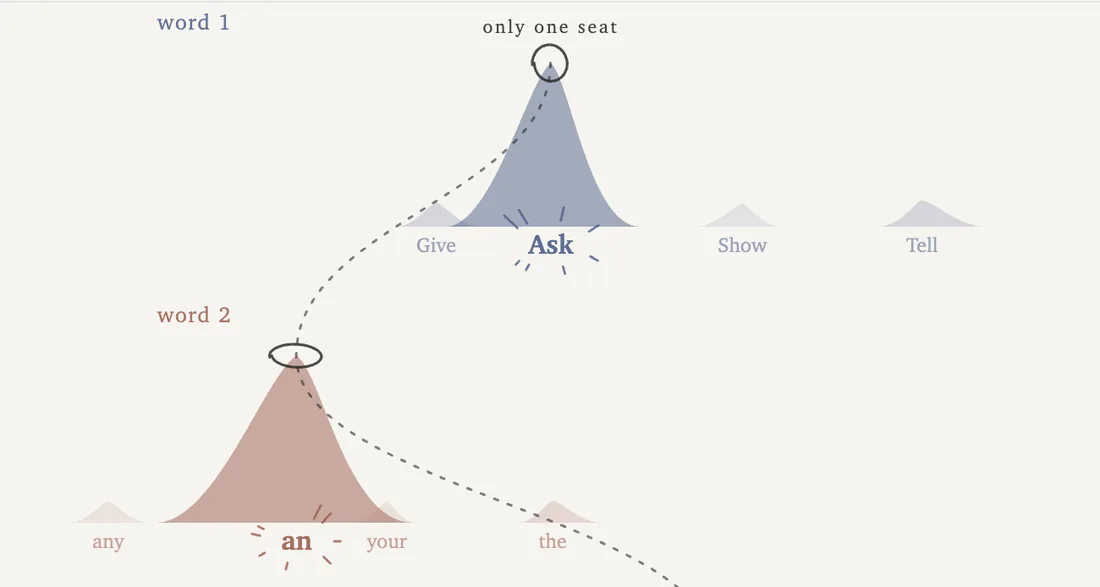
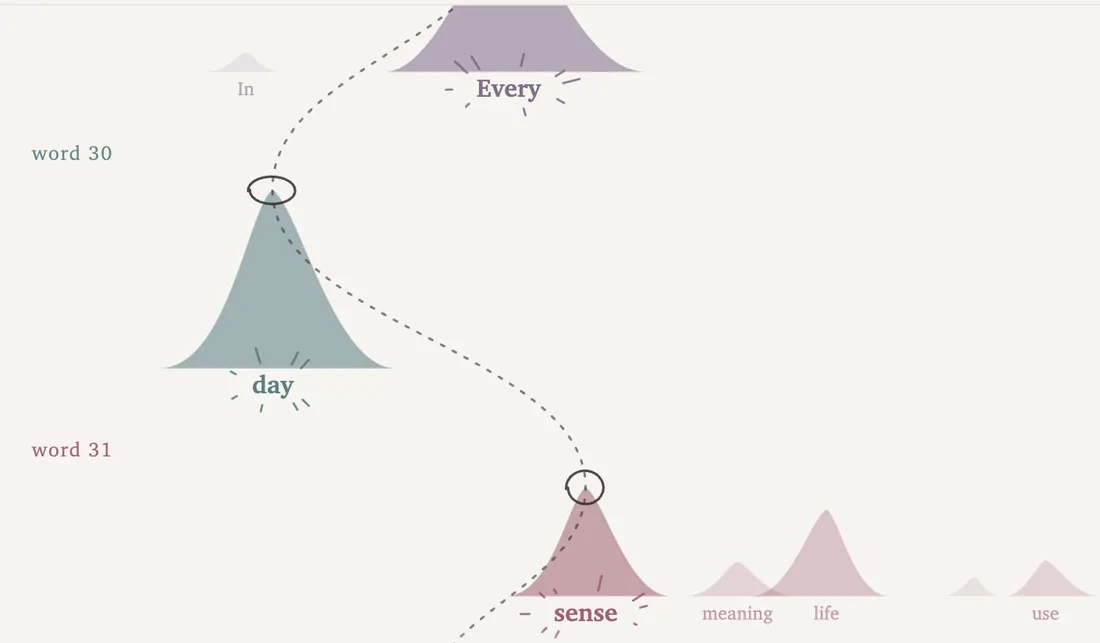
Add files via upload

diff --git a/index.html b/index.html
@@ -3,6 +3,19 @@
   lining-wang.com — v8.0  (one column, side apparatus, no overlay, 2026-09-02)
   Single file. No framework, no tracking, no analytics, no canvas, no dialog.
 
+  CHANGED IN v8.3 (2026-09-02), the built-ins went real:
+    she re-ran the three passages through the model and baked them in
+    (site v21: hello, space, interesting; synthetic wording left the site),
+    so the synthetic frame leaves this page too. amb and nowam now say the
+    three passages are real runs, and amb carries her contrast: hello is
+    clean, hardly a seat contested; space is crowded. On the site's own
+    numbers: hello has nine seats at p=1 with zero challengers; space has
+    six contested seats, and its first word took the seat from rank 2.
+    Those numbers are not on this page, one sentence away if she wants
+    them. New shot from her second screenshot: the Every, day, sense
+    cascade with rivals waiting beside sense, 1100x643. Homepage am5
+    synced in its own v3.8.2.
+
   CHANGED IN v8.2.2 (2026-09-02), two more words from her: 問的是真模型
     joins the live claim in amb and nowam (EN: by asking a real model),
     and EN's press-send wording replaces "after you type", her reading of
@@ -176,7 +189,7 @@
     index.html, og.png, shots/imagery-wall.webp, shots/almost.webp,
     portrait.jpg (unchanged).
     shots/lucidfield.webp and shots/niaur.webp are no longer referenced.
-    sitemap.xml lastmod → 2026-09-02. Run smoketest_v822.js first.
+    sitemap.xml lastmod → 2026-09-02. Run smoketest_v83.js first.
 
   OPEN, FOR HER RULING
     "Since Apr 2026" in the first strip; the removal of the News list; the
@@ -1029,7 +1042,7 @@
             <dt class="live" data-i18n="s_live2">Live</dt>
             <dd data-i18n="now2">The Imagery Wall, at OtherMode: an experiment on mental imagery, about seven minutes, anonymous, in English or Chinese. <a href="https://othermode.ai/imagery" data-resolve>othermode.ai/imagery</a></dd>
             <dt class="live" data-i18n="s_demo">Live</dt>
-            <dd data-i18n="nowam">almost, at OtherMode, the first piece of its AI series: every word in a sentence has only one seat. One sentence is drawn as terrain, a row per word, the candidates as hills, a circle on the one that took the seat. Live: the three built-in passages are synthetic, but the live one is not: once you press send, it is generated by asking a real model. <a href="https://othermode.ai/almost" data-resolve>othermode.ai/almost</a></dd>
+            <dd data-i18n="nowam">almost, at OtherMode, the first piece of its AI series: every word in a sentence has only one seat. One sentence is drawn as terrain, a row per word, the candidates as hills, a circle on the one that took the seat. Live: the three built-in passages are real runs, and a typed sentence is generated on the spot by asking the same model. <a href="https://othermode.ai/almost" data-resolve>othermode.ai/almost</a></dd>
             <dt data-i18n="s_prep">In preparation</dt>
             <dd data-i18n="now3">First paper, the source-claims study: data collection complete, all 62 probe rows read label-blind; manuscript targeted for September. Preregistered at <a href="https://osf.io/8une4" data-resolve>osf.io/8une4</a>, embargoed until release.</dd>
           </dl>
@@ -1117,11 +1130,11 @@
             <span id="othermode" class="anchor"></span>
             <h3 data-i18n="imt">Self-report as the only instrument</h3>
             <p data-i18n="imb">It started with models: when a model reports on its own state, there is nothing to check the report against. The same shape turns up in people. Whether someone sees anything when they picture an apple, and how vividly, is reachable only through what they say about it; people misjudge their own case in both directions, and the shared vocabulary keeps the difference out of sight. So instead of arguing about it I built the instruments, at OtherMode:</p>
-            <p data-i18n="amb">almost, at <a href='https://othermode.ai/almost'>othermode.ai/almost</a>, opens an AI-themed line in the series, and is that line's first piece: one sentence drawn as terrain, a row per word; at every word the candidates stand as hills beside the one that took the seat, close and unseen. It runs live: the three built-in passages are synthetic, but the live one is not; it is generated once you press send, by asking a real model. Type a sentence of your own and watch a real model grow the hills, word by word.</p>
+            <p data-i18n="amb">almost, at <a href='https://othermode.ai/almost'>othermode.ai/almost</a>, opens an AI-themed line in the series, and is that line's first piece: one sentence drawn as terrain, a row per word; at every word the candidates stand as hills beside the one that took the seat, close and unseen. The three built-in passages are real runs now, and the live one is generated once you press send, by asking the same model. The difference shows: the hello passage is clean, hardly a seat is contested; the space passage is crowded, other candidates waiting at seat after seat. Type a sentence of your own and watch a real model grow the hills, word by word.</p>
             <figure class="shot small">
-              <img src="shots/almost.webp" width="1100" height="587" loading="lazy" decoding="async"
-                   alt="Two words of one sentence as terrain: candidates rise as hills, a circle on the one that took the seat, a dashed path linking the seats."
-                   aria-label="Two words of one sentence as terrain: candidates rise as hills, a circle on the one that took the seat, a dashed path linking the seats."
+              <img src="shots/almost.webp" width="1100" height="643" loading="lazy" decoding="async"
+                   alt="Three seats mid-sentence: the candidates rise as hills, a circle on the one that took each seat, the dashed path walking the chosen route; at the last seat the rival words wait beside the winner."
+                   aria-label="Three seats mid-sentence: the candidates rise as hills, a circle on the one that took each seat, the dashed path walking the chosen route; at the last seat the rival words wait beside the winner."
                    data-i18n-label="amalt">
             </figure>
             <p data-i18n="imwall">The Imagery Wall (<a href='https://othermode.ai/imagery'>othermode.ai/imagery</a>, v35, in progress) puts the same instruction to everyone and takes the answer before showing any image, so the report is not shaped by the illustration; six panels then sample points along a continuum rather than sorting anyone into a type.</p>
@@ -1317,10 +1330,10 @@
     "now": "現在",
     "s_live": "上線中",
     "s_live2": "上線中",
-    "amb": "almost（<a href='https://othermode.ai/almost'>othermode.ai\/almost<\/a>）開了系列裡 AI 主題的一條線，是這條線的第一件：一句話被畫成地形，一列一個字；每個字的候選各自成山，站在坐上位子的那一個旁邊，很近，只是沒被看見。已經接上 live：內建三段範例是合成的，但是 Live 的不是，是你打下去後生成的，問的是真模型。你可以自己打一個句子，一個字一個字看真模型長出山（頁面為英文）。",
-    "amalt": "一句話的前兩個字畫成地形：候選各自成山，圈住坐上位子的那一個，虛線把位子連起來。",
+    "amb": "almost（<a href='https://othermode.ai/almost'>othermode.ai\/almost<\/a>）開了系列裡 AI 主題的一條線，是這條線的第一件：一句話被畫成地形，一列一個字；每個字的候選各自成山，站在坐上位子的那一個旁邊，很近，只是沒被看見。頁上三段範例都是真的跑過的，Live 也是你打下去後生成的，問的是真模型。差異一眼可見：Hello 那段很乾淨，位子幾乎沒有競爭；space 那段就擠，好幾個位子都有別的候選在等。你可以自己打一個句子，一個字一個字看真模型長出山（頁面為英文）。",
+    "amalt": "一句話中段的三個位子：候選各自成山，圈住坐上位子的那一個，虛線一路走被選的路；落選的就站在旁邊。",
     "s_demo": "上線中",
-    "nowam": "almost，在 OtherMode，AI 系列的第一件：句子裡的每個字，都只有一個位子。一句話畫成地形，一列一個字，候選各自成山，圈住坐上位子的那一個。已經接上 live：內建三段範例是合成的，但 Live 的不是，是你打下去後生成的，問的是真模型。介面目前為英文。<a href='https://othermode.ai/almost' data-resolve>othermode.ai\/almost<\/a>",
+    "nowam": "almost，在 OtherMode，AI 系列的第一件：句子裡的每個字，都只有一個位子。一句話畫成地形，一列一個字，候選各自成山，圈住坐上位子的那一個。已經接上 live：三段範例都是真的跑過的，你打的句子也是當場問真模型生成。介面目前為英文。<a href='https://othermode.ai/almost' data-resolve>othermode.ai\/almost<\/a>",
     "s_prep": "撰寫中",
     "now1": "LucidField：以 live A/B 比較進行，跨兩家供應商的四個模型、直接透過 API；進站時跑的是 Claude Sonnet 5，一輪做完可以換一個模型再跑。<a href='https://lucidfield.ai' data-resolve>lucidfield.ai<\/a>",
     "now2": "心像牆，在 OtherMode：一個關於心像的實驗，大約七分鐘，匿名，中英文皆可。<a href='https://othermode.ai/imagery?lang=zh' data-resolve>othermode.ai/imagery<\/a>",
